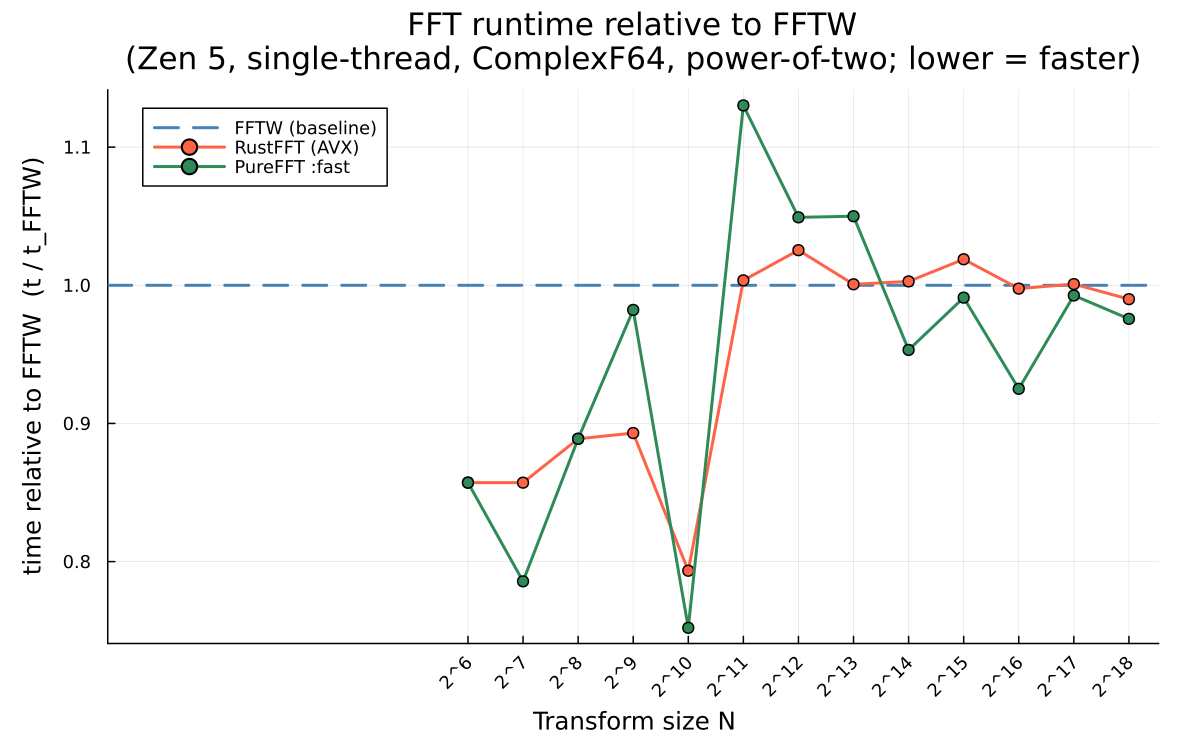
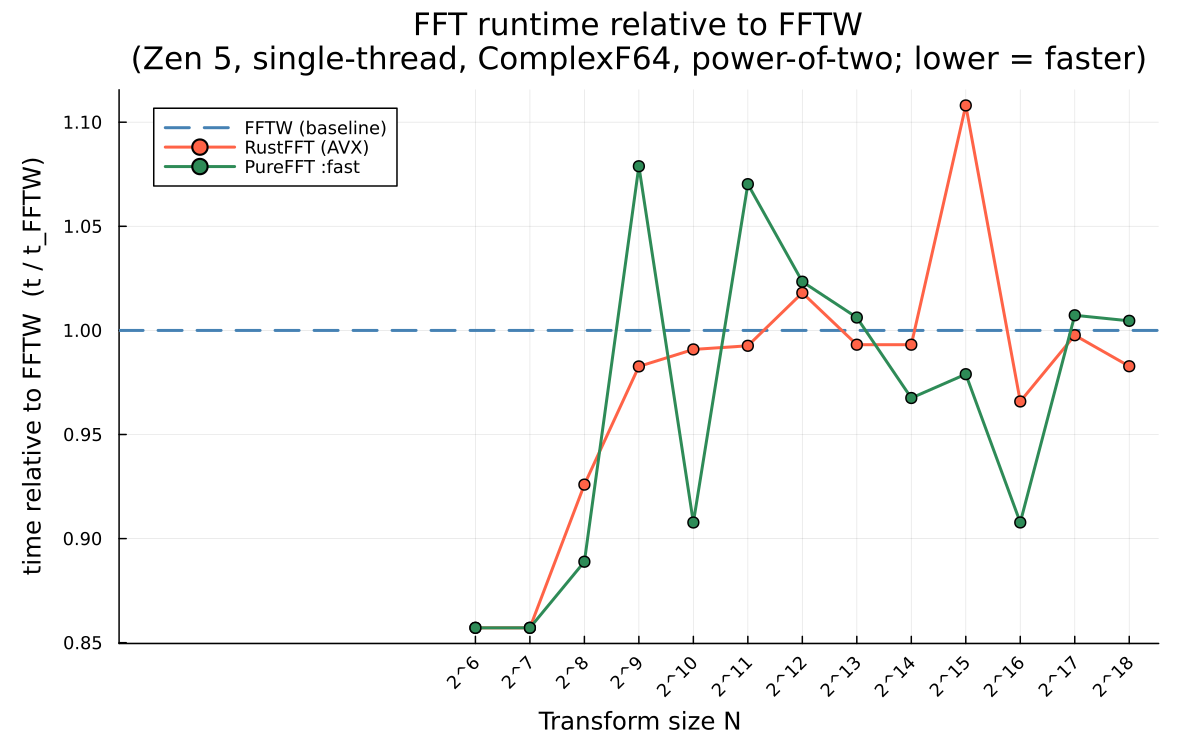
perf(fourstep): SIMD register-tiled transpose + @user ivdep — non-pow2 to ~0.85× FFTW
The four-step's reorder was a naive scalar strided transpose — its dominant overhead (~3μs at
n=5760). Replace it with an 8×8 register-tiled SIMD transpose (_transpose8/_transpose_soa! in
codelets.jl; Float64 SIMD path + scalar fallback for Float32) and add @user ivdep to the
split/twiddle/merge passes.

High-2-content smooth sizes: 0.65→0.81–0.86× FFTW (5760=28.7, 11520=24.7 GF/s; was ~25/22).
Low-2 sizes (e.g. 900=2²·3²·5², no factor divisible by 8) fall to the scalar transpose remainder
and trail ~0.5×. This validates that the gap was algorithm/implementation, not language: pow2
(radix4avx) is already at parity, and non-pow2 just used a naive transpose where rustfft uses a
SIMD one. Remaining gap = the SoA split/merge round-trip (an AoS mixed-radix path would remove it).

Docs + plot label updated to the true state (four-step ≤16384).

diff --git a/docs/src/benchmarks.md b/docs/src/benchmarks.md
@@ -32,21 +32,26 @@ the earlier gap (pure Julia was once ~0.55× of FFTW — see git history / REPOR
 
 No O(n²) cliff: a large prime factor no longer falls to a direct DFT. PureFFT's `:fast` routes by
 size/factorization: small smooth → dynamically-generated mixed-radix codelet (Stage 9); smooth
-composite up to ~4096 → SIMD four-step with batched codelets (Stage 10, split autotuned at plan
-time); everything else (large prime, **or smooth composite > 4096**) → Bluestein chirp-Z (Stage 8).
+composite up to **16384** → SIMD four-step with batched codelets + an 8×8 register-tiled transpose
+(Stage 10, split autotuned at plan time); everything else (large prime, **or smooth composite >
+16384**) → Bluestein chirp-Z (Stage 8).
 
-The plot sweeps smooth-composite sizes (the common non-pow2 case). PureFFT (green) reaches ~9–22
-GF/s on the four-step path (≈0.6× FFTW — not yet parity, the AoS↔SoA + transpose overhead), then
-**drops to ~5 above n≈4096**: the four-step factors cap at 64 (64×64=4096), so larger smooth sizes
-currently fall back to Bluestein. Lifting that needs a recursive four-step (tracked as future work).
+The plot sweeps smooth-composite sizes (the common non-pow2 case). PureFFT (green) reaches **~0.8–
+0.86× FFTW** on the four-step path for high-2-content sizes (e.g. 2880–11520) — the SIMD register
+transpose (the four-step's former dominant overhead) closed most of the earlier gap. Sizes with
+little factor-of-2 content (e.g. 900 = 2²·3²·5², no factor divisible by 8) fall back to the scalar
+transpose remainder and trail at ~0.5×. Above **n≈16384** the four-step factors are exhausted
+(128×128) and it returns to Bluestein. Remaining gap to full parity = the SoA split/merge round-trip
+(an AoS mixed-radix path, like the pow2 `radix4avx`, would remove it).
 
 ![GFLOP/s on non-power-of-two sizes](assets/comparison_nonpow2.png)
 
 | regime | example n | PureFFT | note |
 |---|---:|---:|---|
 | smooth, small — codelet | 27 / 48 | **12.8** / 13 | beats FFTW (10.7); was ~0.2 via old mixed-radix |
-| smooth composite ≤4096 — four-step | 720 / 2880 | **22 / 22** | ~0.6× FFTW, 2–4× Bluestein (Stage 10) |
-| smooth composite >4096 — Bluestein | 5760 / 23040 | ~5 | four-step ceiling; recursive four-step is future work |
+| smooth composite, high-2 — four-step | 5760 / 11520 | **28.7 / 24.7** | ~0.8–0.86× FFTW, SIMD transpose (Stage 10) |
+| smooth composite, low-2 — four-step | 900 | ~18 | ~0.5× (scalar-remainder transpose) |
+| smooth composite >16384 — Bluestein | 23040 | ~5 | four-step ceiling; recursive four-step is future work |
 | large prime / prime power — Bluestein | 181 / 5793 | ~5 | O(n log n), no cliff |
 
 ## All variant progression
@@ -62,7 +67,7 @@ currently fall back to Bluestein. Lifting that needs a recursive four-step (trac
 | `:radix4avx` / `:fast` (pow2) | **40–48** | + AVX Butterfly16/32, radix-16 fusion, small-n register kernels, vectorized transpose |
 | `:bluestein` | non-pow2 | chirp-Z, O(n log n) on primes |
 | `:codelet` | non-pow2 | dynamically-generated mixed-radix kernel (small smooth) |
-| four-step (via `:fast`) | **12–20** | batched SoA codelets, smooth composite non-pow2 |
+| four-step (via `:fast`) | **18–29** | batched SoA codelets + 8×8 SIMD transpose, smooth composite non-pow2 (≤16384) |
 | FFTW-MEASURE | 35–48 | Reference |
 | rustfft-AVX | 34–46 | Reference |
 